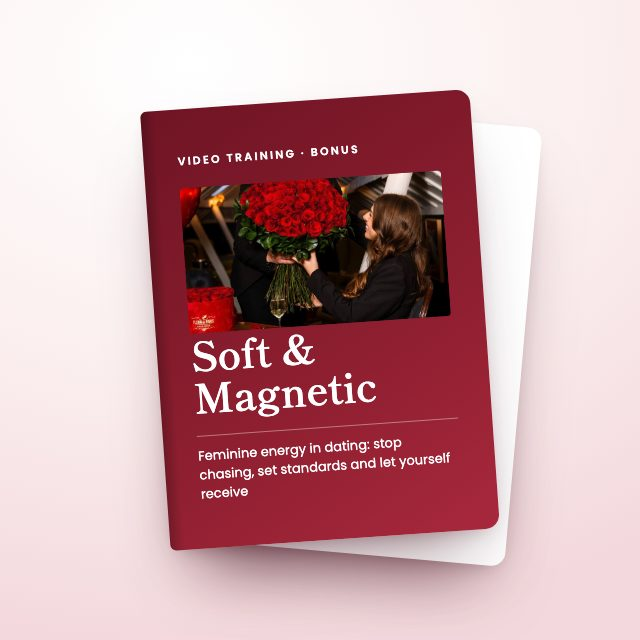
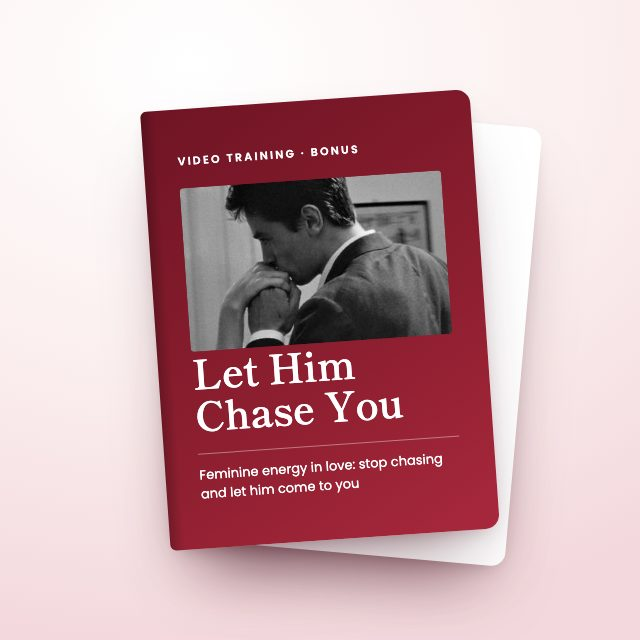
BE album, Let Him Chase You, Feminine At Work bonus, calendar training in program, total $6,282

Changed region(s): [[0.2812, 0.25, 0.7188, 0.7812]]

diff --git a/index.html b/index.html
@@ -243,7 +243,7 @@ footer{padding:30px 20px 44px;text-align:center;font-size:13px;color:var(--mute)
       </div>
     </div>
 
-    <a class="btn big" href="#join">Claim My Spot Now<span class="anchor-in">Normally $5,985 - Yours For $697</span></a>
+    <a class="btn big" href="#join">Claim My Spot Now<span class="anchor-in">Normally $6,282 - Yours For $697</span></a>
   </div>
 </header>
 
@@ -254,22 +254,24 @@ footer{padding:30px 20px 44px;text-align:center;font-size:13px;color:var(--mute)
       <p class="secure">Secure your spot today</p>
       <img class="bundle" src="img/bundle.jpg" alt="The program, the reprogramming session, the hypnosis sessions and the journal">
 
-      <div class="chk"><h3><span class="k">The From Survival to Softness™ 8-Week Program</span></h3><p>My signature 4-stage program that takes you from survival mode to a soft, calm life in 8 weeks. You'll discover which of the 4 Faces of Survival Mode is running your life (most women are surprised by theirs), build your Soft Structure week with real room for you, learn to receive rest and help without guilt, and leave with your own Soft Life Blueprint. Plus 6 live coaching calls with me, together with the other women in the program. ($2,997 Value)</p></div>
+      <div class="chk"><h3><span class="k">The From Survival to Softness™ 8-Week Program</span></h3><p>My signature 4-stage program that takes you from survival mode to a soft, calm life in 8 weeks. You'll discover which of the 4 Faces of Survival Mode is running your life (most women are surprised by theirs), build your Soft Structure week with real room for you (including my Plan Your Week calendar training, the videos you love on my channel), learn to receive rest and help without guilt, and leave with your own Soft Life Blueprint. Plus 6 live coaching calls with me, together with the other women in the program. ($2,997 Value)</p></div>
 
       <div class="chk"><h3><span class="k">BONUS #1:</span> Your Private 1:1 Subconscious Reprogramming Session With Me</h3><p>Imagine the thing that's holding you back, finally gone. Most beliefs that run your life sit so deep you don't even know they're there. In this private 45-minute session, you pick the topic, like self-worth, love or money, and we change the belief at the root. You walk away lighter than you've felt in years, and this time it stays for good. ($397 Value)</p></div>
 
       <div class="chk"><h3><span class="k">BONUS #2:</span> My Private Live 2027 Workshop: Plan The Year You Actually Want (And Follow Through This Time)</h3><p>Every January you set big goals, and by February they're gone. In early January we meet live, and I show you how to set your 2027 goals the feminine way, so they actually stick, even on hard weeks. You set them together with me and the other women, so you're never doing it alone. ($297 Value)</p></div>
 
-      <div class="chk"><h3><span class="k">BONUS #3:</span> ALL 4 Soft Life Hypnosis Sessions + My Morning &amp; Evening Affirmations</h3><p>No more lying awake at 2am, replaying tomorrow's to-do list. You get my 4 guided hypnosis sessions, one for every stage, plus my morning and evening affirmations. They reach the guilt when you sit down, the racing thoughts at night and the need to control everything. My meditations have over 1 million views on YouTube, and these are exclusive only for the women in this program. ($497 Value)</p></div>
+      <div class="chk"><h3><span class="k">BONUS #3:</span> The BE Album: My Hypnosis &amp; Affirmations Album For Women Who Can't Switch Off</h3><p>No more lying awake at 2am, replaying tomorrow's to-do list. I'm certified in hypnosis, and BE is my album of 4 guided hypnosis sessions, one for every stage, plus my morning and evening affirmations. They reach the guilt when you sit down, the racing thoughts at night and the need to control everything. My meditations have over 1 million views on YouTube, and these are exclusive only for the women in this program. ($497 Value)</p></div>
 
-      <div class="chk"><h3><span class="k">BONUS #4:</span> Soft &amp; Magnetic: How To Stop Chasing Men, Stop "Toughening Up" On Dates &amp; Let Him Come To You</h3><p>Imagine him planning the date, booking the table and picking you up, while all you do is get ready and enjoy it. Survival mode makes you date the way you work: you plan, you chase and you carry it all. In my NEWEST training, made only for the women in this program, I show you how to stop chasing, keep high standards without being hard, and let yourself receive, whether you're single, dating or the one who does everything in your relationship. ($297 Value)</p></div>
+      <div class="chk"><h3><span class="k">BONUS #4:</span> Let Him Chase You: How To Stop Doing All The Work In Love &amp; Become The Woman He Wants To Pursue</h3><p>Imagine him planning the date, booking the table and picking you up, while all you do is get ready and enjoy it. Survival mode makes you date the way you work: you plan, you chase and you carry it all. In my NEWEST training, made only for the women in this program, I show you how to stop chasing, keep high standards without being hard, and let yourself receive, whether you're single, dating or the one who does everything in your relationship. ($297 Value)</p></div>
 
-      <div class="chk"><h3><span class="k">BONUS #5:</span> Pocket Urania: 8 Weeks Of Voice-Note Access To Me <span class="only">Only 7 spots</span></h3><p>When something comes up on a Tuesday, you don't have to wait for the next call. Whatever you need, send me a voice note and I answer you personally, for all 8 weeks. I only have room for 7 women in Pocket Urania, because I want to give every one of you my full attention. Once the 7 spots are taken, it's gone from this offer. ($1,500 Value)</p></div>
+      <div class="chk"><h3><span class="k">BONUS #5:</span> Feminine At Work: How To Stay Soft &amp; Feminine In A Masculine Workplace</h3><p>You can lead the meeting and still go home feeling like a woman. Most of us switch into our masculine at 9am and never switch back, not even at dinner. In this training I show you how to stay connected to your feminine at work, set boundaries without being hard and stop bringing the office home with you. ($297 Value)</p></div>
+
+      <div class="chk"><h3><span class="k">BONUS #6:</span> Pocket Urania: 8 Weeks Of Voice-Note Access To Me <span class="only">Only 7 spots</span></h3><p>When something comes up on a Tuesday, you don't have to wait for the next call. Whatever you need, send me a voice note and I answer you personally, for all 8 weeks. I only have room for 7 women in Pocket Urania, because I want to give every one of you my full attention. Once the 7 spots are taken, it's gone from this offer. ($1,500 Value)</p></div>
 
       <div class="chk"><h3><span class="k">YOU ALSO GET:</span> The Soft Circle Community (Lifetime Access)</h3><p>A circle of women who cheer for you the day you finally say no. Doing everything alone is how most of us ended up in survival mode. When you join From Survival to Softness™, you get immediate access to the Soft Circle, my private community where you connect with the other women in the program, plus lifetime access to every lesson and recording.</p></div>
 
       <div class="totals">
-        <p class="tv">Total Value <s>$5,985</s></p>
+        <p class="tv">Total Value <s>$6,282</s></p>
         <p class="np">Normal Price: $997</p>
         <p class="today">ONLY $697 TODAY</p>
         <a class="btn wide" href="#checkout">CLAIM MY SPOT NOW</a>
@@ -312,7 +314,7 @@ footer{padding:30px 20px 44px;text-align:center;font-size:13px;color:var(--mute)
         <p>It took me 6 years to find my way out, one small step at a time. Today I rest without feeling guilty, I put myself on my own list, and I live the soft, feminine life I used to think was only for other women.</p>
         <p><b>From Survival to Softness™ is everything that took me 6 years, given to you step by step in 8 weeks, so you don't have to wait for your body to force you to stop.</b></p>
         <div class="stats"><div><b>150K+</b><span>women on YouTube</span></div><div><b>1M+</b><span>views on my meditations</span></div><div><b>6 years</b><span>teaching women to soften</span></div></div>
-        <a class="btn" href="#checkout">CLAIM MY SPOT NOW<span class="anchor-in">Normally $5,985 - Yours For $697</span></a>
+        <a class="btn" href="#checkout">CLAIM MY SPOT NOW<span class="anchor-in">Normally $6,282 - Yours For $697</span></a>
       </div>
     </div>
   </div>
@@ -363,11 +365,11 @@ footer{padding:30px 20px 44px;text-align:center;font-size:13px;color:var(--mute)
   <div class="wrap">
     <h2 class="faq-title">Frequently Asked Questions</h2>
     <div class="faq-grid">
-      <details open><summary>When does it start, and how long does it take?</summary><p>The live part starts on Saturday 21 November and runs for 8 weeks until Saturday 16 January. But you don't have to wait: the moment you join, you get all the lessons, the hypnosis sessions, the affirmations and Soft &amp; Magnetic, so you can start today. The 6 live coaching calls, your 1:1 session with me and Pocket Urania (if you get one of the 7 spots) start on 21 November. Plan for about 1 to 2 hours a week.</p></details>
+      <details open><summary>When does it start, and how long does it take?</summary><p>The live part starts on Saturday 21 November and runs for 8 weeks until Saturday 16 January. But you don't have to wait: the moment you join, you get all the lessons, the BE album, Let Him Chase You and Feminine At Work, so you can start today. The 6 live coaching calls, your 1:1 session with me and Pocket Urania (if you get one of the 7 spots) start on 21 November. Plan for about 1 to 2 hours a week.</p></details>
       <details><summary>What if I can't make a live session?</summary><p>Every session is recorded and you keep lifetime access, so you can watch it when it suits you. You can also send me your question beforehand.</p></details>
       <details><summary>Is this group coaching or private coaching?</summary><p>Both. The live sessions are with a small group of women, and every woman who joins also gets a private 1:1 subconscious reprogramming session with me. And if you get one of the 7 spots in Pocket Urania, you can send me a voice note whenever you need me between sessions.</p></details>
       <details><summary>"I'm already so busy. How will I find the time?"</summary><p>That's exactly who this program is for. Nothing here asks you to add more to your plate. We start by making space, and the Hard Week Protocol gives you a 10-minute version of everything for the weeks when life gets loud.</p></details>
-      <details><summary>"Urania, what if I don't have the budget right now?"</summary><p>I understand. Learning what's inside this program cost me 20 years in survival mode, three months with half of my face paralysed and 6 years of finding my way out. Everything inside is worth $5,985, and today you get all of it for $697.</p><p>And here's what I've seen: survival mode is expensive. It's the takeaway because you're too tired to cook, the things you buy to feel better for one evening, and the chances you say no to because you have nothing left. When you come out of it, you get your energy and your clear head back. You show up differently at work, in your business and in love, and you naturally find a way to make things work.</p><p>The $697 price is only for this round.</p></details>
+      <details><summary>"Urania, what if I don't have the budget right now?"</summary><p>I understand. Learning what's inside this program cost me 20 years in survival mode, three months with half of my face paralysed and 6 years of finding my way out. Everything inside is worth $6,282, and today you get all of it for $697.</p><p>And here's what I've seen: survival mode is expensive. It's the takeaway because you're too tired to cook, the things you buy to feel better for one evening, and the chances you say no to because you have nothing left. When you come out of it, you get your energy and your clear head back. You show up differently at work, in your business and in love, and you naturally find a way to make things work.</p><p>The $697 price is only for this round.</p></details>
       <details><summary>"Is now really the right time? It's almost Christmas."</summary><p>Did you just ask me if right before Christmas is the right time to stop living in survival mode? 😅 December is exactly when the strong one does everything: the gifts, the cooking, the hosting and everyone's feelings. This year you go through it with me and the other women by your side, and you start January with your 2027 plan instead of another burnout.</p></details>
       <details><summary>"I already watch your videos. Why join the program?"</summary><p>Videos give you ideas, and the program gives you your own plan. Inside, you build your personal Soft Life Blueprint step by step, you get live coaching, a 1:1 reprogramming session with me and support between sessions, so it doesn't stay a nice idea you forget by Monday.</p></details>
       <details><summary>Is this only about feminine energy?</summary><p>No. Feminine energy is part of it, but this is also very practical: your morning, your week, your boundaries and your calendar. The inner work helps you know what you need, and the practical work makes room for it.</p></details>
@@ -377,7 +379,7 @@ footer{padding:30px 20px 44px;text-align:center;font-size:13px;color:var(--mute)
 </section>
 
 <section class="end">
-  <a class="btn" href="#checkout">CLAIM MY SPOT NOW<span class="anchor-in">Normally $5,985 - Yours For $697</span></a>
+  <a class="btn" href="#checkout">CLAIM MY SPOT NOW<span class="anchor-in">Normally $6,282 - Yours For $697</span></a>
   <p class="call">Not sure it's for you? <a href="https://calendly.com/coachurania/survial-to-softness-clarity-call">Book a free call with me</a></p>
 </section>
 
